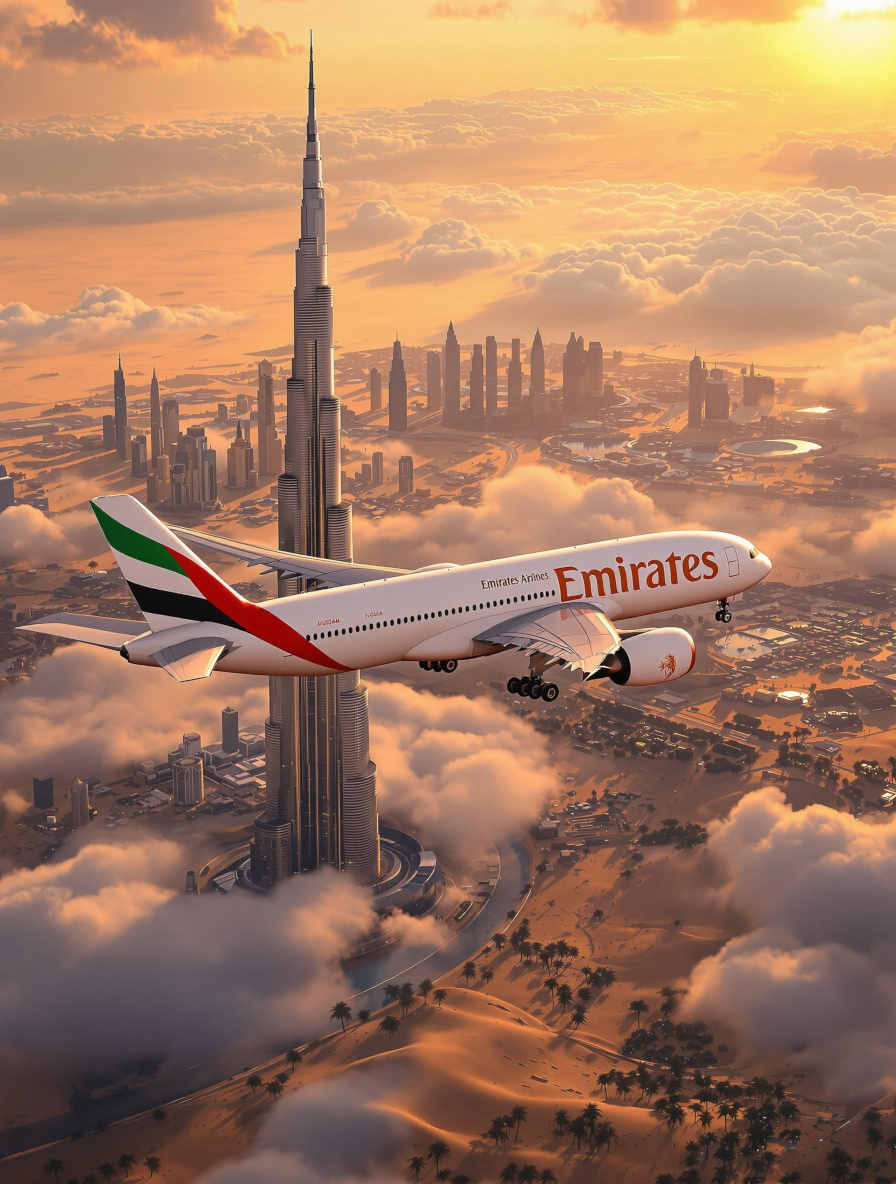
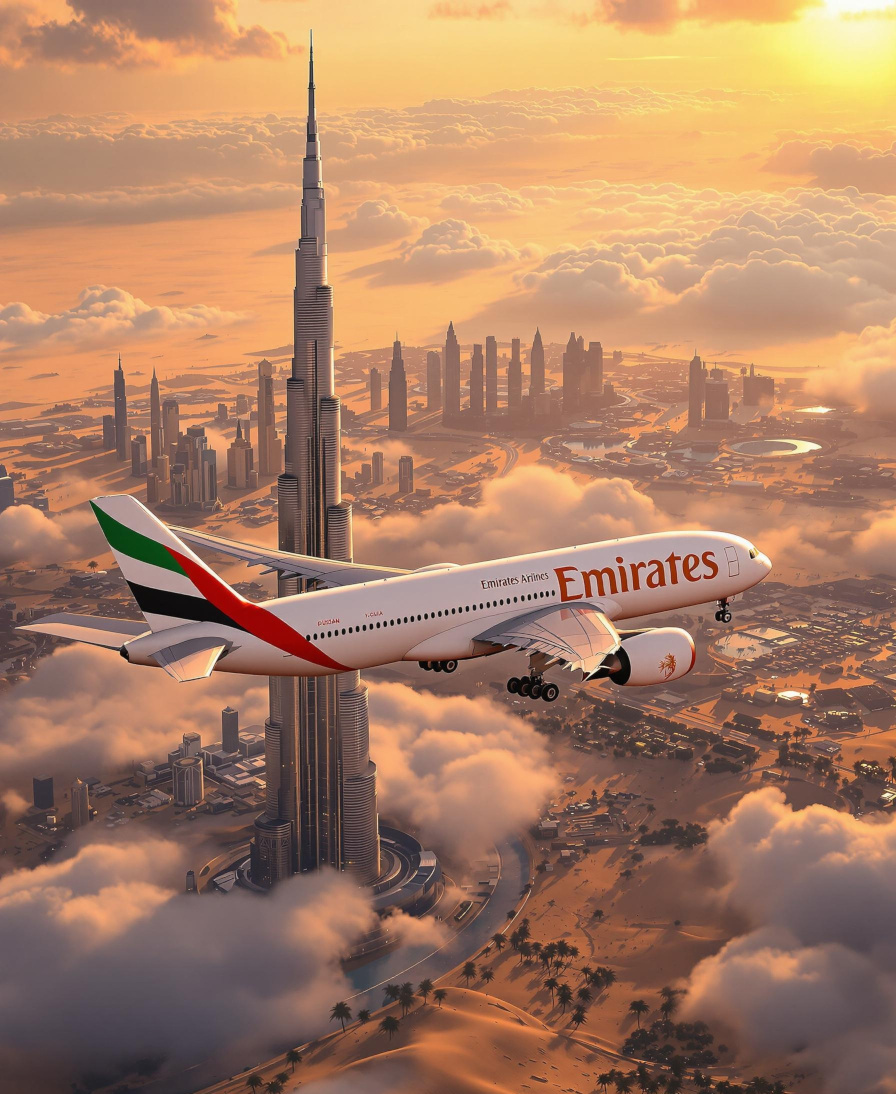
.

diff --git a/flutter_service_worker.js b/flutter_service_worker.js
@@ -22,11 +22,11 @@ const RESOURCES = {".git/COMMIT_EDITMSG": "8cf8463b34caa8ac871a52d5dd7ad1ef",
 ".git/hooks/push-to-checkout.sample": "c7ab00c7784efeadad3ae9b228d4b4db",
 ".git/hooks/sendemail-validate.sample": "4d67df3a8d5c98cb8565c07e42be0b04",
 ".git/hooks/update.sample": "647ae13c682f7827c22f5fc08a03674e",
-".git/index": "c7f566a62931e37833f6a93401be5a4f",
+".git/index": "68741ebf3a59783ce02fe503bf0ab197",
 ".git/info/exclude": "036208b4a1ab4a235d75c181e685e5a3",
-".git/logs/HEAD": "fded9d21faaca3121f628362cb4d0eed",
-".git/logs/refs/heads/main": "7b95ac1919b16407ecab72b532283e18",
-".git/logs/refs/remotes/origin/main": "7c6c131fd10ee75eabd285ff126012f1",
+".git/logs/HEAD": "1ad0cbf962a0b893fc6cdcab7d619439",
+".git/logs/refs/heads/main": "0ff4c17b3226230ffd1c2dc952bf219d",
+".git/logs/refs/remotes/origin/main": "02a6f1b6b71c87900f68a5d6ff8f193f",
 ".git/objects/00/2a9a844c2117829c633774a8673a525e86561d": "ae1874559c54620d94daf17a4bbd04d9",
 ".git/objects/00/3d09138e0d33201c6b98ce40bc0ab1f7e971b0": "e17a532b324166b399ad59a5c539a0ed",
 ".git/objects/00/44b0765aede4e3a90ec2d4203b6bb574220a3b": "47fe0fdedfc07eae97d4e6cbd3034834",
@@ -269,6 +269,7 @@ const RESOURCES = {".git/COMMIT_EDITMSG": "8cf8463b34caa8ac871a52d5dd7ad1ef",
 ".git/objects/1c/46ab70f899e3e17a1564903e1a47b50d04bf44": "45d5456ba2332daa4d7d7ca3bcb40aab",
 ".git/objects/1c/9567de8e67445cfe54bc41ae6cbcd431e793d6": "17fb971a5d0b3bae285babfaad7a3316",
 ".git/objects/1c/9af8a6b341822a2350def66960eae05ae7c324": "de5b29d145a8b239da5593e876e99d58",
+".git/objects/1c/b3c956d93da5c17a89c2c41a882bfb76ed2a2e": "ca442150cd727f4555f8d0b79eb5d0cb",
 ".git/objects/1c/bd825f00f842cecd17aee4ebc4f7e7e14a6dca": "d1cf28053523cf8cd8c943f4b769b11a",
 ".git/objects/1c/c8f644a2ddea286441be3285192f11b31437ce": "453ed413a966a1bb79df8f05a53ef34b",
 ".git/objects/1c/d4750e225dc48b150f9e94c28ec2f23a2d9292": "79ed5f9cd3367dba731f4d599d1835eb",
@@ -1250,6 +1251,7 @@ const RESOURCES = {".git/COMMIT_EDITMSG": "8cf8463b34caa8ac871a52d5dd7ad1ef",
 ".git/objects/8e/c674e173d2085e255b2191405409a2f1b66929": "26aa2a55211a9c355450283724232c9d",
 ".git/objects/8e/f6b0fbe3beee30c4d9475de160e6683763ec5b": "e4c69d57166017697d25fccae1ae7c95",
 ".git/objects/8f/27e0b6837451f4733827e3fe17ea4fddae6323": "785d8db4545f10c6176a19db74238309",
+".git/objects/8f/36681716dafce102a7c979fe02283010b888fe": "84f32bb18a08882b55712c47b2093808",
 ".git/objects/8f/8de73bba33a5306d35478c399e2af9e7fd416d": "427682b3860d5995d8d1745b1307ed3c",
 ".git/objects/8f/9cce83e32c472f583b69781e40f03b89bf4a82": "f424c3368e2df9c793931bab7f87d5e6",
 ".git/objects/8f/af4e8bdefee89b710d3fd0f9e20f0f69474ba7": "392aefcf06a1b7a28e243d953edc2987",
@@ -1914,6 +1916,7 @@ const RESOURCES = {".git/COMMIT_EDITMSG": "8cf8463b34caa8ac871a52d5dd7ad1ef",
 ".git/objects/dc/24a58757a497dd30e1fa4dc140150a26253ee0": "26d1ba3886b3cf72b3d3ad3211eb874f",
 ".git/objects/dc/2c36892dacf56c7a4067ca2f2f268a3821461f": "2ecff61e82efa820b3109d2cc6cee5aa",
 ".git/objects/dc/31218443612d1ae98febaad8ecd39bcdd95aee": "795634e61a887b8cf522b68668fdb1d1",
+".git/objects/dc/3a41a48dcbf3dda221962207438473eb5ff6c7": "dd5f2f63aaa65b8a632777d8fd4664f8",
 ".git/objects/dc/3f7dc8017348ea4c048e513909b9d9fb46b1eb": "089843359be95a9f4876e339a17bed4b",
 ".git/objects/dc/4d2d7a3f9a927fb564311d0a34c30ac2190332": "8ad150fa819b4c22c0dcdbca30c1c10b",
 ".git/objects/dc/7621e4c6c5d0afb01bb6031155a126b558b99c": "11df6de92fb7d82d842f912e430f969b",
@@ -1992,6 +1995,7 @@ const RESOURCES = {".git/COMMIT_EDITMSG": "8cf8463b34caa8ac871a52d5dd7ad1ef",
 ".git/objects/e4/6b51a51e01cb150d1a1d32d72c407b159029b9": "81b0e775e765908961c338e1eac32093",
 ".git/objects/e4/6fe979fc35794571323f48bc593e3c804912dc": "7a28313c883024091f91196fd614b53d",
 ".git/objects/e4/efd7368b46013bbba3755f9e3bd241b86156b7": "6758c8b08f48a762ce8e1499e623d913",
+".git/objects/e4/feb48615f55711e0cf451bbb9775ae93fd2cdd": "2cc0dc2f3046f354a2274e6a43e7912c",
 ".git/objects/e5/0d35fa2789dec06c0f25812cf98ad9028c253c": "7ed5d9cc11c89d67a7d6ebdb7b9dc0a9",
 ".git/objects/e5/191c2d9a77a4c8b2bb40b3ac61c98fdd11e012": "821a397e2090b87bb8620863a15eaf04",
 ".git/objects/e5/375cb4c8ec1ac7daeed1ce9afac0bfa69d1949": "01c05d802932b814448745282fdf3974",
@@ -2250,8 +2254,8 @@ const RESOURCES = {".git/COMMIT_EDITMSG": "8cf8463b34caa8ac871a52d5dd7ad1ef",
 ".git/objects/ff/f7c9149012efabacde7c7f374d5aed41b918f6": "73eb4ae36c7716946e91c447e0ca9984",
 ".git/ORIG_HEAD": "2b5cc19edce88e21f8927d04ee19319d",
 ".git/REBASE_HEAD": "2b5cc19edce88e21f8927d04ee19319d",
-".git/refs/heads/main": "14a16fe93e37c74e8ddc3ba0e8b56e13",
-".git/refs/remotes/origin/main": "14a16fe93e37c74e8ddc3ba0e8b56e13",
+".git/refs/heads/main": "67221e768f865942313bacca903e3f73",
+".git/refs/remotes/origin/main": "67221e768f865942313bacca903e3f73",
 "assets/AssetManifest.bin": "69990f7286caa1e0be60bab4be335273",
 "assets/AssetManifest.bin.json": "9b99804e0b285d13e894cf8583b5413f",
 "assets/AssetManifest.json": "2f1433c98ec16fffb4f321e5f83306ed",
@@ -2280,7 +2284,7 @@ const RESOURCES = {".git/COMMIT_EDITMSG": "8cf8463b34caa8ac871a52d5dd7ad1ef",
 "assets/assets/images/dubai_mall.jpg": "76cfe8b0e65fa665ff57855590a2445d",
 "assets/assets/images/dubai_tree.jpg": "3b1066683a0a395445104574516d63ca",
 "assets/assets/images/dubai_yacht.jpg": "a3f73466f6cdfdb9b2be18f1d5110071",
-"assets/assets/images/emirates.jpg": "7eb4df537b80aeb5e741b6c392780328",
+"assets/assets/images/emirates.jpg": "6519d3286ff7747907465540817682f0",
 "assets/assets/images/game_background.jpg": "9078594f054f94170ad27b90750d6ff5",
 "assets/assets/images/gold.png": "b09df02260efe681bba4819e6bfbd0ec",
 "assets/assets/images/hotel1.jpg": "2451a9600608e3a4e0cf2a504f3bc314",
@@ -2330,7 +2334,7 @@ const RESOURCES = {".git/COMMIT_EDITMSG": "8cf8463b34caa8ac871a52d5dd7ad1ef",
 "canvaskit/skwasm.worker.js": "89990e8c92bcb123999aa81f7e203b1c",
 "favicon.png": "5dcef449791fa27946b3d35ad8803796",
 "flutter.js": "f393d3c16b631f36852323de8e583132",
-"flutter_bootstrap.js": "bb9bd44b406943e36bba83b77b932b58",
+"flutter_bootstrap.js": "6e3d1a5ead6990a3b0f69408f94d22fe",
 "icons/Icon-192.png": "ac9a721a12bbc803b44f645561ecb1e1",
 "icons/Icon-512.png": "96e752610906ba2a93c65f8abe1645f1",
 "icons/Icon-maskable-192.png": "c457ef57daa1d16f64b27b786ec2ea3c",

diff --git a/flutter_bootstrap.js b/flutter_bootstrap.js
@@ -11,6 +11,6 @@ _flutter.buildConfig = {"engineRevision":"a18df97ca57a249df5d8d68cd0820600223ce2
 
 _flutter.loader.load({
   serviceWorkerSettings: {
-    serviceWorkerVersion: "4274271934"
+    serviceWorkerVersion: "1228556191"
   }
 });
